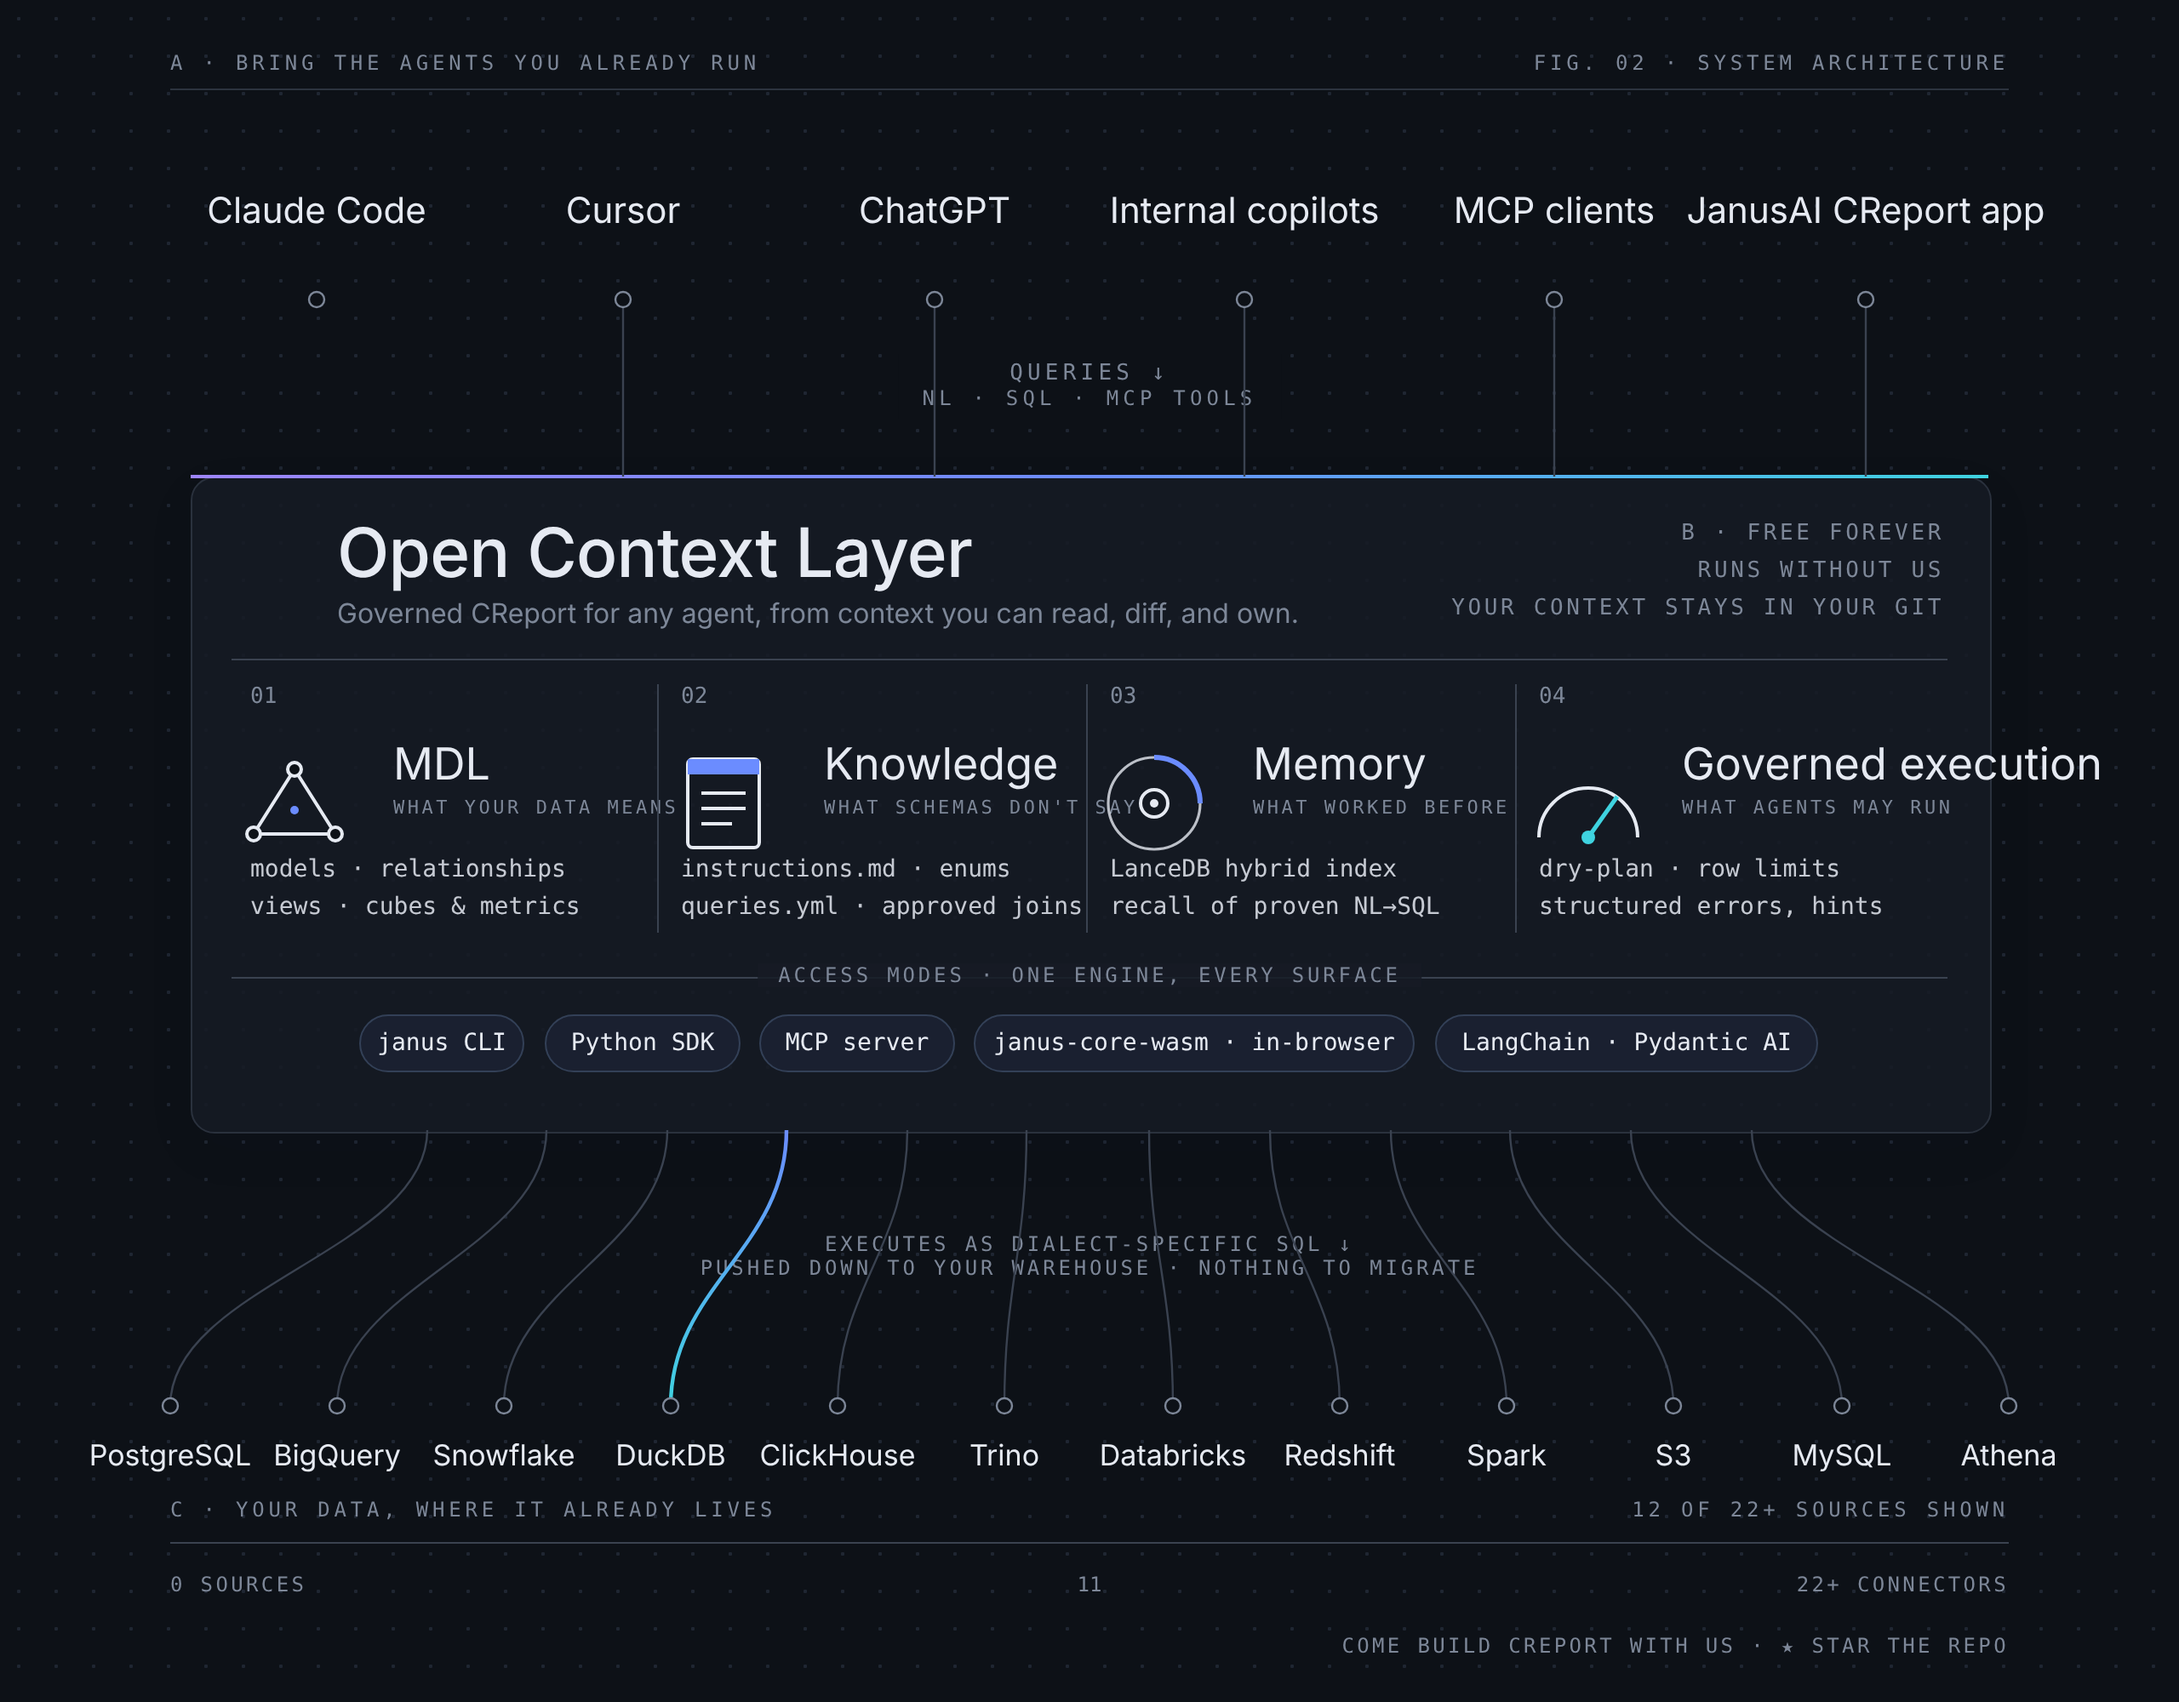
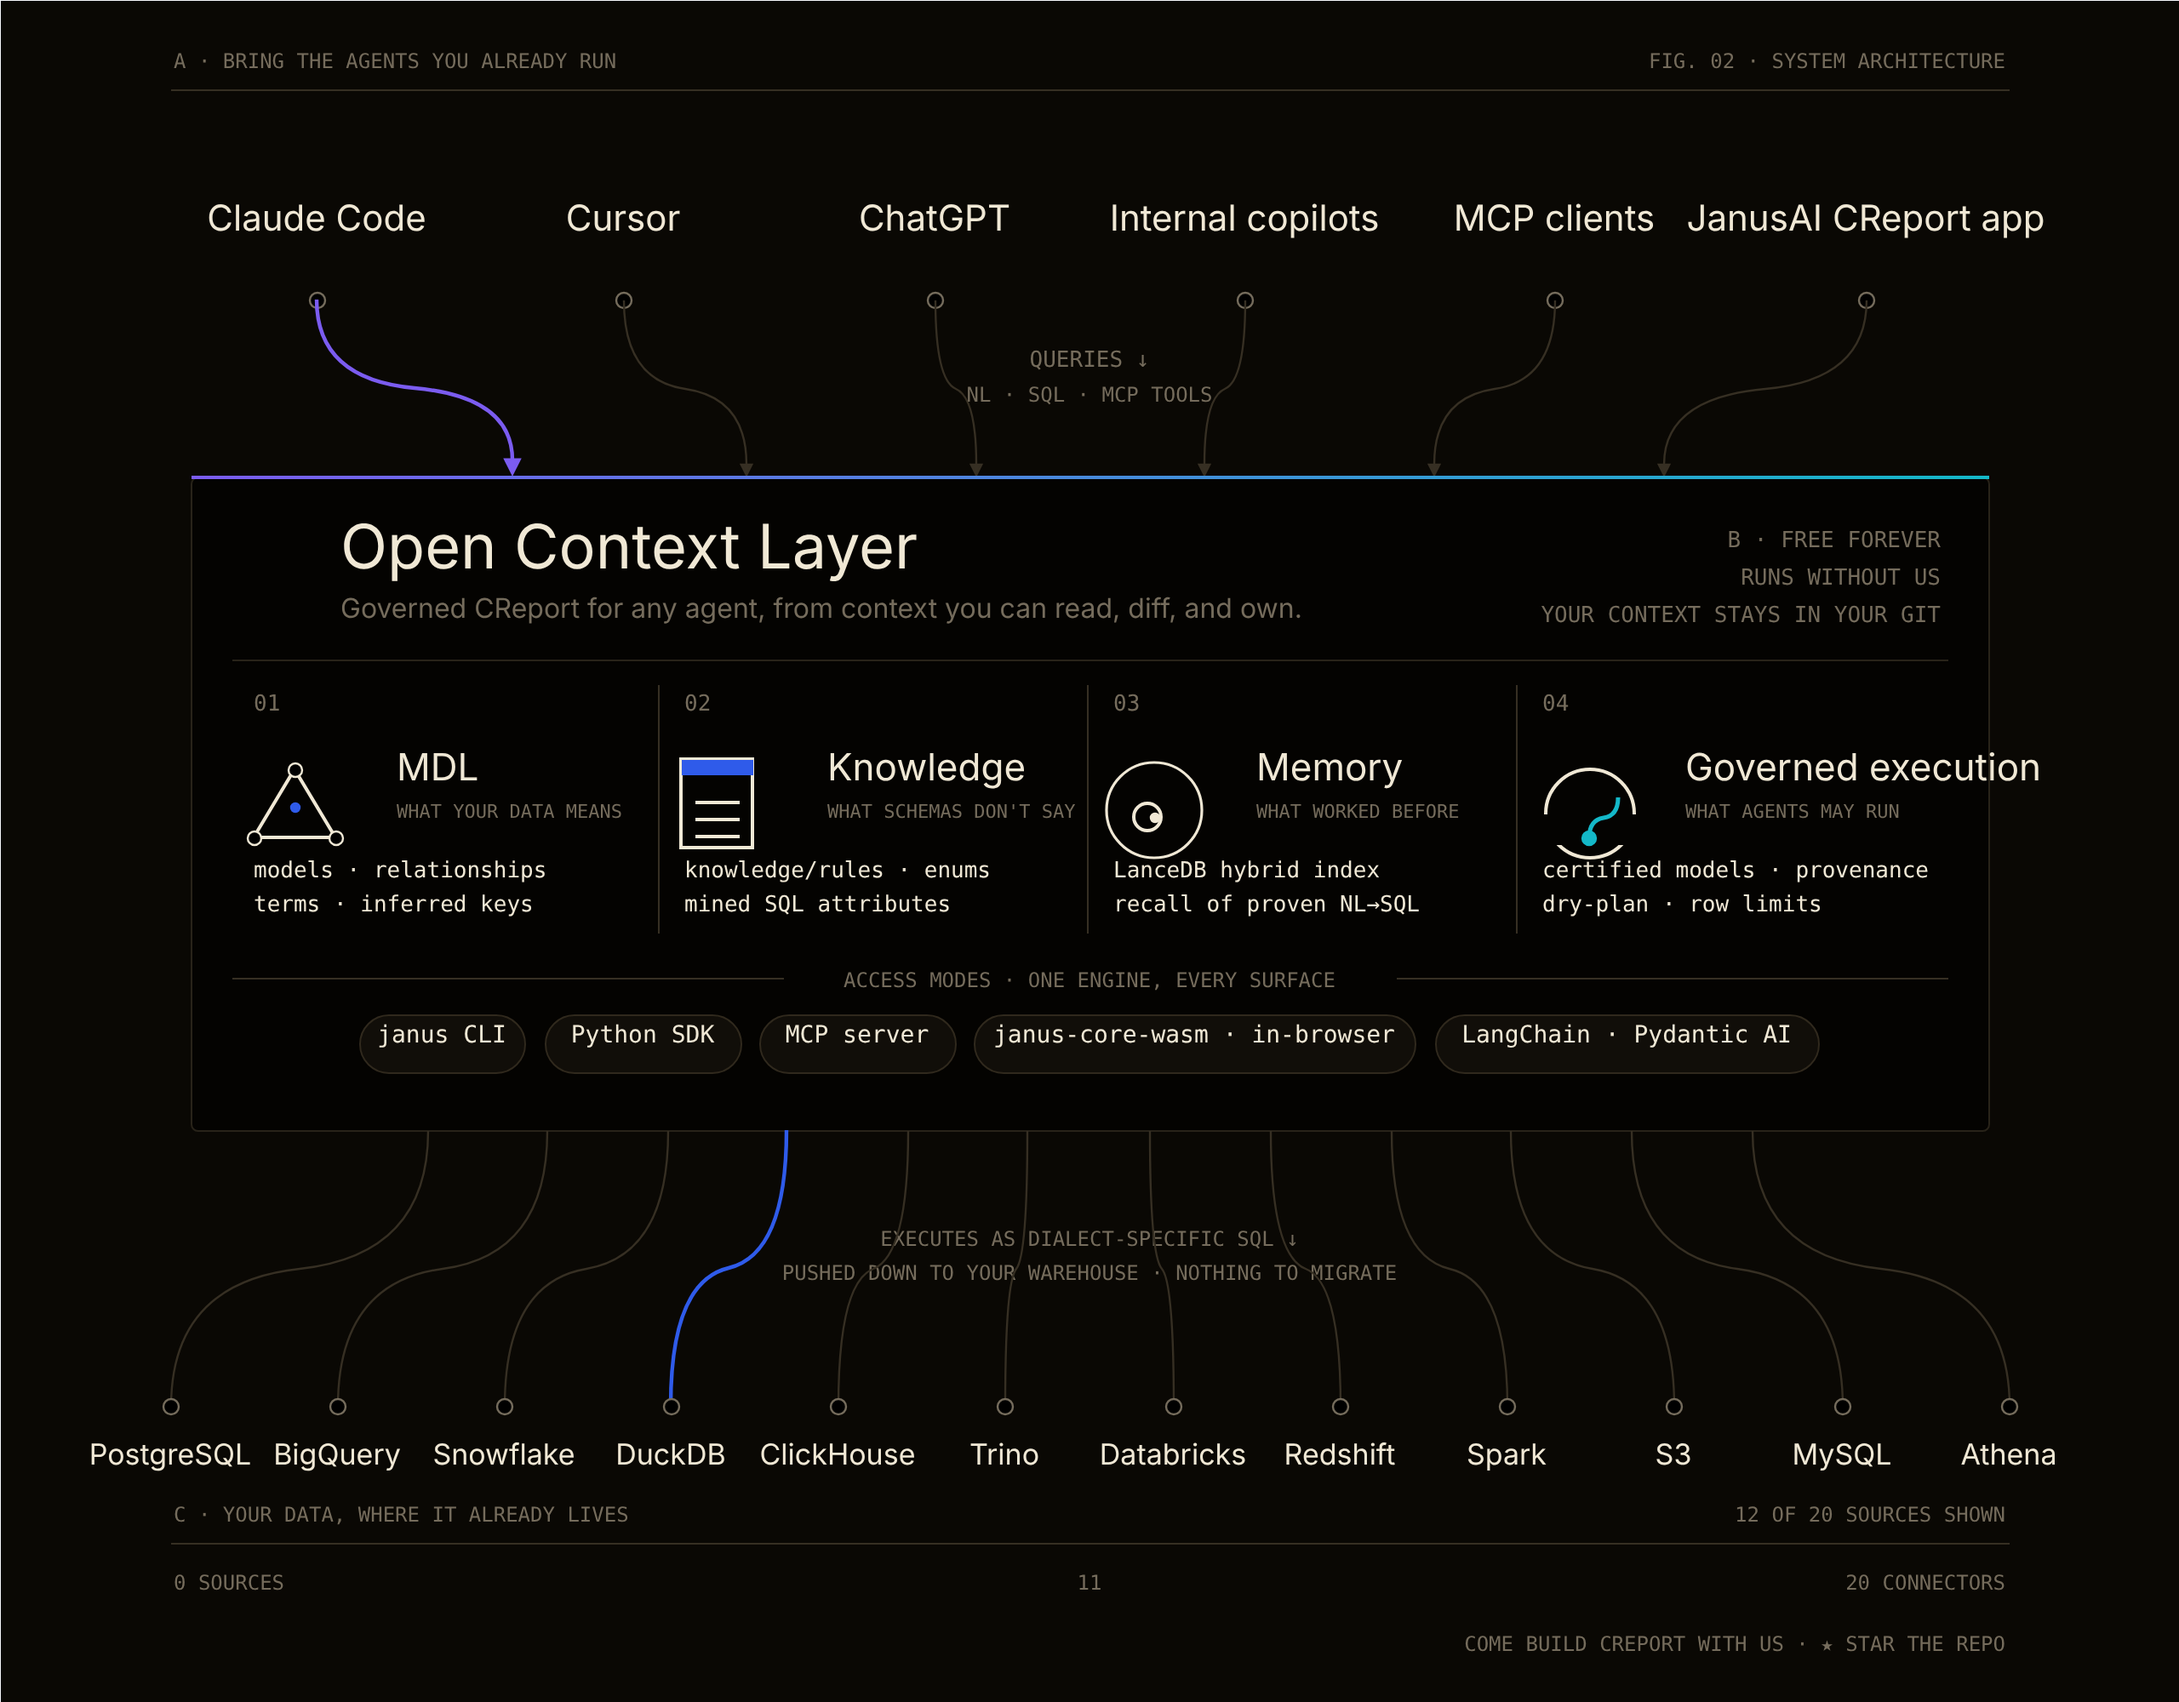
docs: replace the README architecture images with the rebuilt version
The four README images (English and Chinese, light and dark) are replaced
with the figure rebuilt from docs/diagrams. They show the current context
layer: terms and inferred keys in pillar 01, mined SQL attributes in pillar 02,
the draft layer in the flow, and 20 connectors.

build_variants.py derives the Chinese and dark variants from the English light
source, so the four share one layout. The Chinese variant uses the WenQuanYi
Zen Hei font. The dark variant inverts neutral colors and keeps the accents.
The README references are unchanged.

Claude-Session: https://claude.ai/code/session_01BkXiZyAvrb5AEnaFz3NP9n

diff --git a/docs/diagrams/build_variants.py b/docs/diagrams/build_variants.py
@@ -1,0 +1,99 @@
+"""Derive the README architecture variants from janus-ai-architecture.drawio.
+
+Outputs (each a .drawio file, rendered to PNG separately):
+  janus-ai-architecture.zh-CN.drawio         Chinese labels, light
+  janus-ai-architecture-dark.drawio          English labels, dark
+  janus-ai-architecture-dark.zh-CN.drawio    Chinese labels, dark
+
+The layout is the same in all four. Only text and colors change. Neutral
+colors are inverted for dark; saturated accents are kept.
+"""
+
+from __future__ import annotations
+
+import html
+import pathlib
+import re
+from xml.sax.saxutils import escape
+
+HERE = pathlib.Path(__file__).resolve().parent
+SOURCE = HERE / "janus-ai-architecture.drawio"
+
+ZH = {
+    "A · BRING THE AGENTS YOU ALREADY RUN": "A · 让你已有的智能体直接接入",
+    "FIG. 02 · SYSTEM ARCHITECTURE": "图 02 · 系统架构",
+    "Internal copilots": "内部助手",
+    "JanusAI CReport app": "JanusAI CReport 应用",
+    "QUERIES ↓": "查询 ↓",
+    "NL · SQL · MCP TOOLS": "自然语言 · SQL · MCP 工具",
+    "Open Context Layer": "开放上下文层",
+    "Governed CReport for any agent, from context you can read, diff, and own.": "面向任何智能体的受治理 CReport：上下文可读、可比对、可掌控。",
+    "B · FREE FOREVER": "B · 永久免费",
+    "RUNS WITHOUT US": "无需我们也能运行",
+    "YOUR CONTEXT STAYS IN YOUR GIT": "上下文留在你的 Git 中",
+    "WHAT YOUR DATA MEANS": "数据的业务含义",
+    "models · relationships": "模型 · 关系",
+    "terms · inferred keys": "术语 · 推断的外键",
+    "Knowledge": "知识",
+    "WHAT SCHEMAS DON'T SAY": "Schema 没有说明的内容",
+    "knowledge/rules · enums": "knowledge/rules · 枚举",
+    "mined SQL attributes": "挖掘出的 SQL 属性",
+    "Memory": "记忆",
+    "WHAT WORKED BEFORE": "过去有效的做法",
+    "LanceDB hybrid index": "LanceDB 混合索引",
+    "recall of proven NL→SQL": "召回已验证的 NL→SQL",
+    "Governed execution": "受治理的执行",
+    "WHAT AGENTS MAY RUN": "智能体可以运行的内容",
+    "certified models · provenance": "认证模型 · 溯源",
+    "dry-plan · row limits": "dry-plan · 行数上限",
+    "ACCESS MODES · ONE ENGINE, EVERY SURFACE": "访问方式 · 一个引擎，所有入口",
+    "janus-core-wasm · in-browser": "janus-core-wasm · 浏览器内",
+    "EXECUTES AS DIALECT-SPECIFIC SQL ↓": "按各方言执行 SQL ↓",
+    "PUSHED DOWN TO YOUR WAREHOUSE · NOTHING TO MIGRATE": "下推到你的数据仓库 · 无需迁移",
+    "C · YOUR DATA, WHERE IT ALREADY LIVES": "C · 数据留在原处",
+    "12 OF 20 SOURCES SHOWN": "展示 12 / 20 个数据源",
+    "0 SOURCES": "0 个数据源",
+    "20 CONNECTORS": "20 个连接器",
+    "COME BUILD CREPORT WITH US  ·  ★ STAR THE REPO": "欢迎一起构建 CReport  ·  ★ 给仓库点星",
+}
+
+_HEX = re.compile(r"#([0-9a-fA-F]{6})\b")
+
+
+def _translate(xml: str) -> str:
+    def swap(match: re.Match) -> str:
+        original = html.unescape(match.group(2))
+        if original in ZH:
+            return match.group(1) + escape(ZH[original], {'"': "&quot;"}) + match.group(3)
+        return match.group(0)
+
+    out = re.sub(r'(<mxCell id="\d+" value=")([^"]*)(")', swap, xml)
+    return out.replace("fontFamily=Inter", "fontFamily=WenQuanYi Zen Hei")
+
+
+def _darken_neutrals(xml: str) -> str:
+    """Invert neutral (low-saturation) colors; keep saturated accents."""
+
+    def invert(match: re.Match) -> str:
+        r, g, b = (int(match.group(1)[i:i + 2], 16) for i in (0, 2, 4))
+        if max(r, g, b) - min(r, g, b) >= 40:
+            return match.group(0)
+        return "#{:02x}{:02x}{:02x}".format(255 - r, 255 - g, 255 - b)
+
+    return _HEX.sub(invert, xml)
+
+
+def main() -> None:
+    light = SOURCE.read_text(encoding="utf-8")
+    outputs = {
+        "janus-ai-architecture.zh-CN.drawio": _translate(light),
+        "janus-ai-architecture-dark.drawio": _darken_neutrals(light),
+        "janus-ai-architecture-dark.zh-CN.drawio": _darken_neutrals(_translate(light)),
+    }
+    for name, content in outputs.items():
+        (HERE / name).write_text(content, encoding="utf-8")
+        print("wrote", name)
+
+
+if __name__ == "__main__":
+    main()
